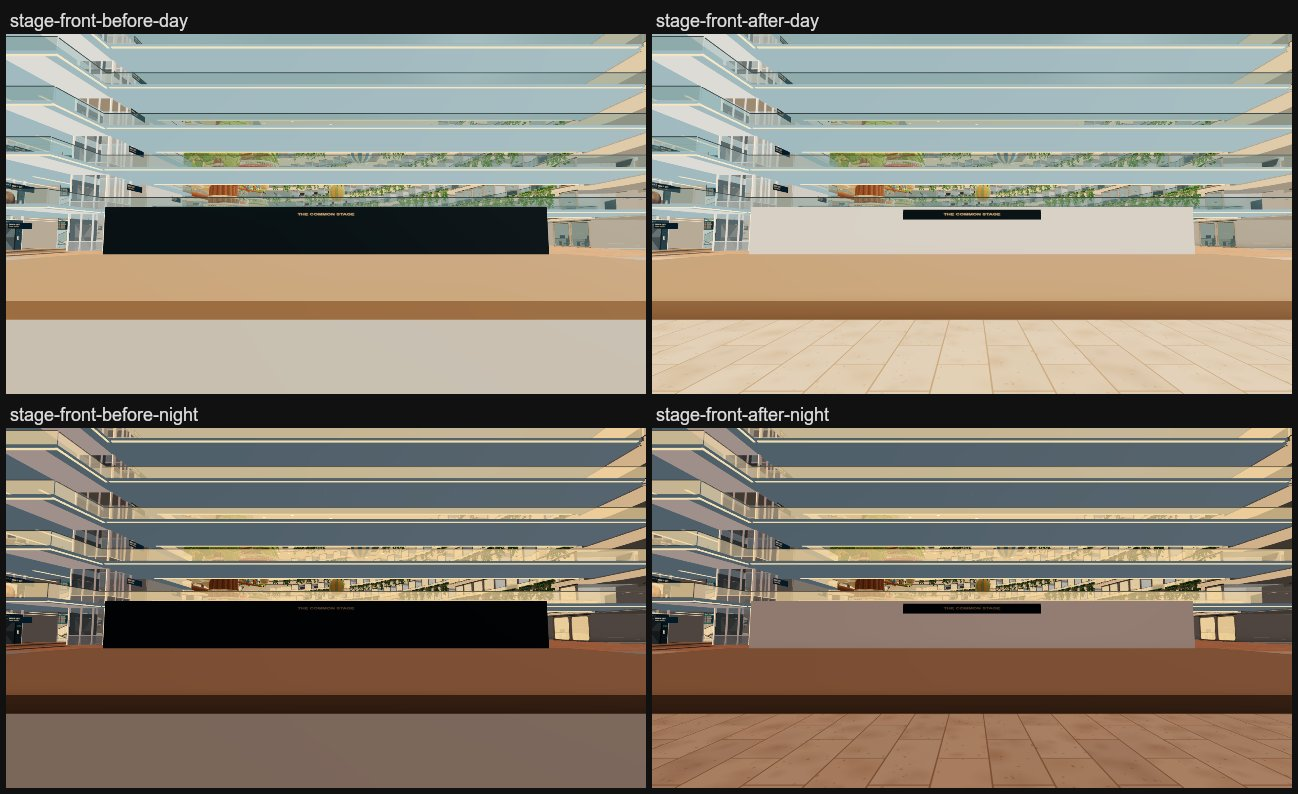
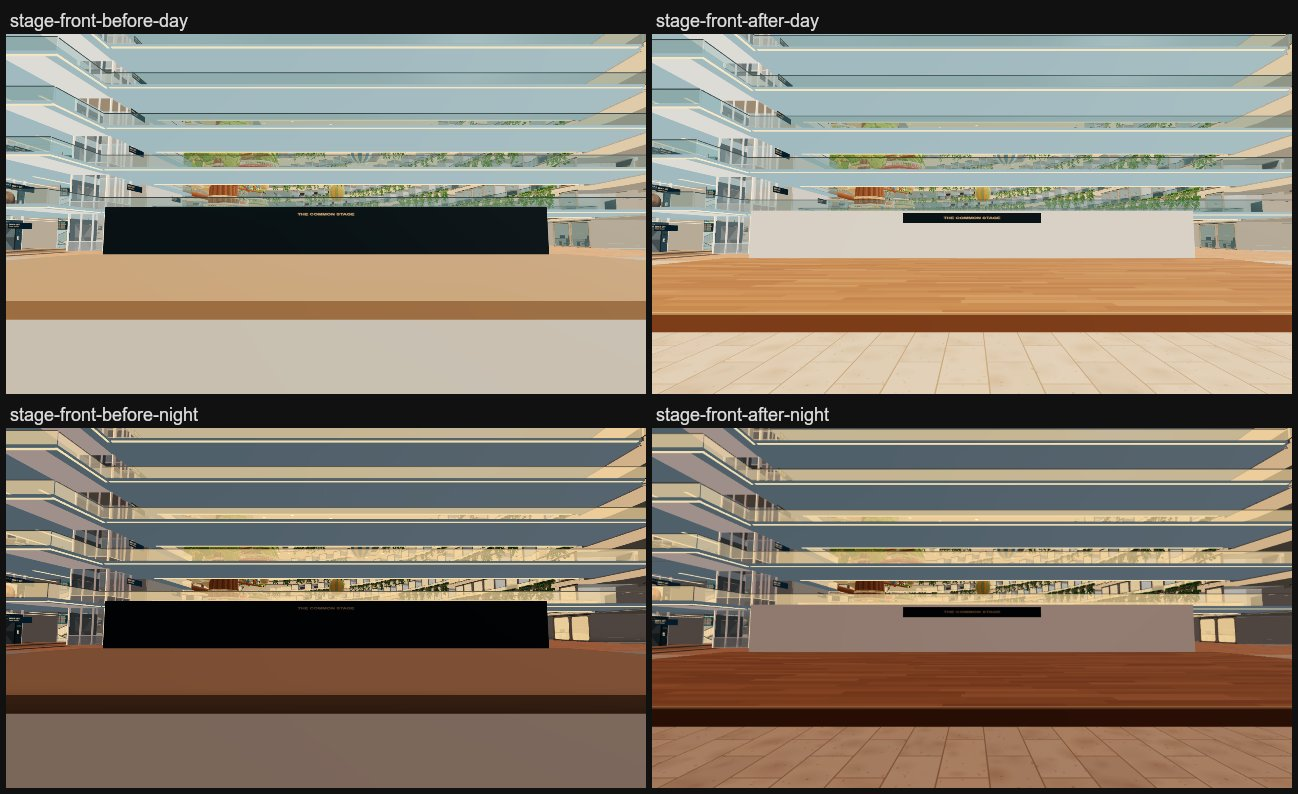
docs(atrium): stage refine 2 README, sheets, costs and checks
Terraces from the back row to a 4.5 m apron (9 seat rows, 127 seats), warm
timber in the garden mesh. Draws unchanged vs refine 1 (stage-wide 537,
stage-front 438); all nine checks pass on the 4683b34e build. Atrium PVS key
now 4.63d7c932….a8a438c4….6afd3900… (none baked).

Changed region(s): [[0.4931, 0.5441, 1.0, 0.937], [0.4931, 0.0302, 1.0, 0.4232]]

diff --git a/docs/atrium-areas/stage/README.md b/docs/atrium-areas/stage/README.md
@@ -1,97 +1,136 @@
 # G5 Common stage: amphitheatre (concept stage-a)
 
-The stage's 145 teal theatre chairs on a flat grey floor become four shallow curved tiers of warm timber with 62 cream
-cushions, curving round in front of the stage. The stage keeps its 14 x 32 m timber deck and its THE COMMON STAGE sign;
-the navy backdrop behind it becomes a cream stone wall. The plaza between the tiers and the stage is pale travertine.
+The stage's 145 teal theatre chairs on a flat grey floor become curved terraces of warm, honey-orange timber with 127
+cream cushions, stepping down from the back of the zone to a short apron in front of the stage. The stage keeps its
+14 x 32 m deck (now laid with the same boards) and its THE COMMON STAGE sign; the navy backdrop behind it becomes a cream
+stone wall. The apron is pale travertine.
 
 ![stage-wide: before, concept A, after; day (top) and night (bottom)](contact-stage-wide.jpg)
 
 ![stage-front: before and after, day (top) and night (bottom)](contact-stage-front.jpg)
 
-![the refine pass at stage-wide and stage-front: first build (left), final (right)](refine-pass.jpg)
+![stage-wide (top) and stage-front (bottom): first build, refine 1, refine 2](refine-pass.jpg)
 
-*Before is main a7b127ff, after is e0671d2b; both are r187 builds (three 0.187.0) in `leo-floor-before`, captured with
-`scripts/capture-atrium-areas.mjs --only=stage-wide,stage-front --query=time=day|night` (the before set was taken by
-atrium-lake-food from its a7b127ff build). The concept was painted over an older, brighter capture, so compare layout and
-hue, not brightness.*
+*Before is main a7b127ff, after is 4683b34e (refine 2); all are r187 builds (three 0.187.0) in `leo-floor-before`,
+captured with `scripts/capture-atrium-areas.mjs --only=stage-wide,stage-front --query=time=day|night` (the before set was
+taken by atrium-lake-food from its a7b127ff build). The concept was painted over an older, brighter capture, so compare
+layout and hue, not brightness.*
+
+## Passes
+
+1. **First build (fcecd2e0):** four 0.24 m oak tiers at radii 24.4–35.5 m, one cushion row each (62 seats), a big plaza
+   in front.
+2. **Refine 1 (e0671d2b):** pale step nosings, a lit cream wall, pale plaza paving. From stage-wide it still read as a
+   thin band of steps behind an empty plaza.
+3. **Refine 2 (4683b34e, Jay):** the terraces now run from the back row to a normal 4.5 m apron. They span most of the
+   zone and fill the stage-wide frame down to the stage, as in the concept. The timber is warmer and more orange, with no
+   new draw.
 
 ## What changed
 
 | File | Change |
 | --- | --- |
-| `src/v2/atrium-stage.js` (new) | Tiers, nosings, cushions, seats, stage deck and back wall (`addAtriumStage`), their shapes (`stageGeometry`) and plan (`stageTiers`, `stageSeats`) |
+| `src/v2/atrium-stage.js` (new) | The terrace plan (`stageBands`, `stageTiers`, `stageSeats`), the colliders and wall (`addAtriumStage`, `stageGeometry`), and the visible timber, nosings, cushions and stage deck (`addStageDecor`) |
 | `src/v2/phase6-programme.js` | The stage platform/backdrop line and the chair grid become one `addAtriumStage({parts,rests,y})` call; the sign line is unchanged |
 | `src/v2/phase4-fitout.js` (+ `.authoring.js`) | `stageGeometry(b)` is tried after `reflectionGeometry(b)` for parts with a `stageShape` |
-| `src/v2/standing.js` | The tier treads are planned floors, like the Forum terraces |
+| `src/v2/atrium-gardens.js` | One `addStageDecor(out,layout)` call (after `addFallingWater`) adds the stage's timber to the garden mesh |
+| `src/v2/atrium-architecture.js` (+ `.authoring.js`) | One line beside the terrace-guard hook hides the stage's collider furnishings (`P4_p6_stage_(tiers\|cushions_N\|platform)`) |
+| `src/v2/standing.js` | The treads and bench tops are planned floors, like the Forum terraces |
 | `src/plan/atrium-v2.js` | The stage zone's floor colour: grey `0xb6b8b0` becomes pale travertine `0xf2d7b4` |
 | `src/v2/atrium-surfaces.js` (+ `.authoring.js`) | The stage zone takes the travertine paver texture (`paved`), in its own colour |
 
-## How the tiers work
+## How the terraces work
 
-- **Plan.** Four annular sectors about a centre 4 m in front of the stage (x 102, z 30): treads at radii 24.4–26.6,
-  26.6–28.8, 28.8–31 and 31–35.5 m. The top tier is a 4.5 m promenade; the stage-wide viewpoint (x 68) stands on it, as
-  in the concept. Each tier runs from z 8.5 (2.5 m clear of the boulevard planters at z 6) to z 35 (2.57 m clear of the
-  room recess at x 71–89, z ≥ 37.6), with radial ends, so the lower tiers wrap further round. Everything stays inside
-  G5 (x 66.5–87.6, z 8.5–35 for the tiers; the stage is unchanged at x 106–120), at least 2.57 m from the atrium
-  outline (phase6-sanity wants 2.4 m), and under 3.5 m, well below the Deck 7 slab. The boulevard, the x −79 and x 2 cross
-  routes and the food stalls are untouched.
-- **Walking.** Each riser is 0.24 m, under the walker's 0.4 m step (`BODY.step`, `src/walk/collision.js`), so every
-  tread is walked onto from the one below, from anywhere along the arc; no aisles or ramps are needed. The top is 0.96 m,
-  under the 1 m drop that `scripts/v2-walk.mjs` allows without a guard, so the back edge and the tier ends need no rail
-  (stepping off them is a drop of 0.24–0.96 m onto the plaza). Each tier is a closed solid from the deck up (top, riser,
-  back, both ends), so the walker can't get inside one: `check:walk` reports no unguarded drops, and its flood reaches
-  every tread.
-- **Collision.** The tiers and cushions are ordinary solid furnishings: `addPhase4Colliders` takes their real triangles
-  (they are not box-like), and the tiers count as ground (`groundMesh`: the name has `stage`). The nosings and the back
-  wall are visual only (`noCollide`), as the old backdrop was.
-- **Look.** Oak tiers (the stage deck's material). A cream nosing (7 cm, 1.2 cm proud, lapping 3 cm down the riser) marks
-  each step: from the stage-wide view the risers face away, so without it the treads merged into one surface. The wall's
-  face faces aft, away from the atrium's sun, where a cream face renders tan; its normals are tilted towards the light
-  (as atrium-architecture.js does for the lift tower), so it reads cream.
+- **Plan.** The terraces are annular bands about the stage's front middle (x 108, z 30). There are four tiers, each
+  0.24 m up:
+
+  | Tier | Radii (m) | Seat rows |
+  | --- | --- | --- |
+  | 1 | 6.5–26.6 | its step, then benches at 10.8, 15.1, 19.4 and 23.4 m |
+  | 2 | 26.6–32.6 | its step, then a bench at 29.6 m |
+  | 3 | 32.6–36.6 | its step |
+  | 4 | 36.6–41.5 | its step; the 0.96 m top promenade, where the stage-wide viewpoint (x 68) stands, as in the concept |
+
+  The deep treads carry **0.65 m deep, 0.3 m high timber benches**, so the nine seat rows step all the way down to the
+  stage. Tier 1's front is at x 101.5, which leaves a **4.5 m apron** to the stage deck (x 106).
+- **Reach.** Each band reaches round as far as the zone allows. The inner bands wrap round the stage, reaching z 8.5 to
+  44.3. The outer bands stop at z 35 by the room recess (x 71–89, z ≥ 37.6).
+- **Clearances.** Everything stays inside G5: the terraces cover x 66.5–104.6 and z 8.5–44.3, and the stage is unchanged
+  at x 106–120. The terraces keep at least 2.59 m from the atrium outline (phase6-sanity wants 2.4 m) and stay under
+  1.1 m, far below the Deck 7 slab. The boulevard, the x −79 and x 2 cross routes and the food stalls are untouched.
+- **Walking.** Every rise is under the walker's 0.4 m step (`BODY.step`, `src/walk/collision.js`): 0.24 m per tier and
+  0.3 m onto a bench. So every tread and bench is walked onto from the one in front, anywhere along the arc, with no
+  aisles or ramps.
+- **No rails needed.** The top is 0.96 m, under the 1 m drop that `scripts/v2-walk.mjs` allows without a guard, so the
+  back edge and the band ends need no rail. Each band and bench is a closed solid from the deck up, so the walker can't get
+  inside one.
+- **Collision.** The tiers (one solid of 5,264 triangles), the nine cushion rows (one part per row, 1,524 triangles) and
+  the stage platform box stay phase 4 furnishings. `addPhase4Colliders` takes their real triangles, and `groundMesh`
+  counts them as ground (the name has `stage`).
+  - `atrium-architecture.js` hides them as `phase6ArchitectureSource`, as it does for the terrace guards, so they
+    collide but never draw. Culling, batching and phone-furnishing all skip them.
+  - The cushion colliders are split by row so each row's box keeps 2.4 m off the outline.
+  - The back wall stays visual only (`noCollide`), as the old backdrop was.
+- **Look.** The visible terraces are in the garden mesh (`P6_atrium_gardens`, already one vertex-coloured, flat-shaded
+  draw), in 128 pieces and 36,876 triangles:
+  - honey-orange timber boards (`0xad7441`–`0xc28a55`), laid in concentric 0.3 m strips of 2.4–4.4 m boards;
+  - darker risers, ends and bench fronts (`0x9c6538`);
+  - pale nosings (`0xdcae78`) on every step, bench and the stage front;
+  - rounded cream cushions (`0xf1e1c4`);
+  - the stage deck in the same boards.
+
+  The wall's face faces aft, away from the atrium's sun, where cream renders tan, so its normals are tilted towards the
+  light (as `atrium-architecture.js` does for the lift tower).
+- **Why the garden mesh and not oak.** The shared `oak` material has no vertex colours. Turning them on would need a
+  colour attribute on every oak furnishing, or they render black. A warmer timber in oak therefore meant a new material
+  and a new draw. The garden mesh already draws the atrium's floor decor in vertex colour, so the warm timber costs no draw
+  there.
 
 ## How the seats work
 
 The cushions re-anchor the existing seat system; nothing new was invented. Each cushion is a rest spot in the phase 6
-programme's `rests` (`kind:'sit'`, `phase4`/`phase6`, `instanced`), exactly like the chairs it replaces, with ids
-`p6-stage-tier-<1..4>-seat-<n>`. Raised seats need nothing special:
+programme's `rests`, exactly like the chairs it replaces:
 
-- `point`/`height` are the cushion's top (tread + 0.08 m), and `facing` points at the tiers' centre (towards the stage).
-- One row per tier, 0.36 m behind the nosing, about 1.6 m apart, at least 1 m in from the tier ends: 16, 16, 16 and 14.
-- A walker stands on the tread below (0.24 m lower) in front of a cushion and sits facing the stage, feet on that tread.
-  phase6-local finds that approach for all 604 phase 6 seats (it needs `plannedStanding`, hence `standing.js`), and the
-  prepared-walk audit finds a collider under every seat at its height.
+- They are `kind:'sit'`, `phase4`/`phase6` and `instanced`, with ids `p6-stage-tier-<1..4>-seat-<n>`.
+- `point`/`height` are the cushion's top (the tread or bench + 0.08 m, at most 1.04 m), and `facing` points at the
+  centre (towards the stage).
+- There is one row per step and per bench, 0.36 m behind its nosing and about 1.6 m apart. Cushion edges keep 1 m in from
+  the band ends on steps and 1.5 m on benches (0.5 m in from the bench ends): tier 1 has 68 seats, tier 2 has 30, tier 3 has 15 and tier 4 has 14, so 127 in all.
+- A walker stands on the tread in front of a cushion and sits facing the stage. phase6-local finds that approach for all
+  669 phase 6 seats (it needs `plannedStanding`, hence `standing.js`), and the prepared-walk audit finds a collider under
+  every seat at its height.
 - No other code referred to the old `p6-atrium6-stage-seat-*` ids.
 
-Seats in the zone go from 145 chairs to 62 cushions (phase 6 total 687 → 604; phase6-sanity wants more than 500).
+Seats in the zone go from 145 chairs to 127 cushions (phase 6 total 687 → 669; phase6-sanity wants more than 500).
 
 ## Cost
 
 From the walk's `?fps=1` readout at 1600 x 900 (`stats.json` beside each capture set):
 
-| View | Before (a7b127ff) | After (e0671d2b) |
-| --- | --- | --- |
-| stage-front, day / night | 438 draws, 7.79M tris | 438 draws, 7.80M tris |
-| stage-wide, day | 474 draws, 8.29M tris | 537 draws, 9.57M tris |
-| stage-wide, night | 475 draws, 8.29M tris | 538 draws, 9.57M tris |
-| deck-level control, 2.2 m behind stage-wide (x 65.8) | — | 476 draws, 8.32M tris |
+| View | Before (a7b127ff) | Refine 1 (e0671d2b) | Refine 2 (4683b34e) |
+| --- | --- | --- | --- |
+| stage-front, day / night | 438 draws, 7.79M tris | 438, 7.80M | 438, 7.83M |
+| stage-wide, day | 474 draws, 8.29M tris | 537, 9.57M | 537, 9.60M |
+| stage-wide, night | 475 draws, 8.29M tris | 538, 9.57M | 538, 9.60M |
+| deck-level control, 2.2 m behind stage-wide (x 65.8) | — | 476, 8.32M | 476, 8.35M |
 
-- **No new draws from the stage.** The tiers, nosings, cushions and wall are indexed furnishings in the existing oak and
-  cream materials, so on multi-draw GPUs they join the existing furnishing batches (`furnishing-batches.js`); stage-front
-  is unchanged.
-- **stage-wide costs more because the walker stands higher.** The viewpoint now lands on the 0.96 m top tier, and from
-  that eye height more of the ship (upper balconies, cabins through glass) is in view: +63 draws and +1.28M triangles.
-  From the deck just behind the tiers the same view costs 476 draws and 8.32M triangles, within 2 draws of before.
-- **Geometry:** tiers 1,090 + nosings 1,090 + cushions 6,696 + wall 12 triangles, against 5,220 for the 145 chairs it
-  replaces (+3,668 net). Phones see each new kind once (phone-furnishing.js); it is all stage furnishing, not distant decor.
+- **No new draws from the stage.** The warm timber, nosings, cushions and stage deck are merged into the existing garden
+  draw, and the colliders are hidden. The wall (12 triangles) is a cream furnishing in the existing batch. Refine 2 draws
+  exactly what refine 1 did in every view.
+- **stage-wide costs more only because the walker stands higher.** The viewpoint lands on the 0.96 m top tier. From that
+  eye height more of the ship is in view (upper balconies, cabins through glass): +63 draws and +1.3M triangles. From the
+  deck just behind the terraces, the same view costs 476 draws, within 2 of before.
+- **Geometry.** The garden mesh grows by 36,876 triangles, against 5,220 for the 145 chairs it replaces. The colliders
+  (6,800 triangles) are never drawn.
 
 ## Checks and the PVS key
 
-All on the final r187 build of e0671d2b in `leo-floor-before` (exit 0 each):
+All on the r187 build of 4683b34e in `leo-floor-before` (exit 0 each):
 
 | Check | Result |
 | --- | --- |
-| `npm run check:walk` | PASS: 0 unguarded drops over 1 m, 0 void falls; seats and beds 35,311/35,311 usable, the stage's 62/62 |
-| `node scripts/check-phase6-v2.mjs` | PASS: all 12 tasks (sanity, local seat fit 604/604, contract, floor/canopy/fog/visibility/directory/service-deck/live-glass fixtures, prepared audit incl. the atrium void, sky tip) |
+| `npm run check:walk` | PASS: no unguarded drops over 1 m (`guardGaps` empty), 0 void falls; seats and beds 35,376/35,376 usable, the stage's 127/127 |
+| `node scripts/check-phase6-v2.mjs` | PASS: all 12 tasks (sanity with 669 seats, local seat fit 669/669, contract, floor/canopy/fog/visibility/directory/service-deck/live-glass fixtures, prepared audit incl. the atrium void, sky tip) |
 | `node scripts/check-prepared-runtime-migration.mjs` | PASS |
 | `npm run check:atrium-time` | PASS, 12 checks |
 | `node scripts/check-atrium-void-fixtures-v2.mjs` | PASS |
@@ -100,21 +139,22 @@ All on the final r187 build of e0671d2b in `leo-floor-before` (exit 0 each):
 | `node scripts/check-lobby-tile-v2.mjs` | PASS |
 | `node scripts/check-main-features-v2.mjs` | PASS |
 
-The first build (fcecd2e0, before the refine) also passed `check:walk` with the same tier and seat geometry; the refine
-only added `noCollide` nosings and moved the cushions 6 cm.
+Refine 1 (e0671d2b) also passed all nine, with 62/62 stage seats.
 
 **Atrium PVS key** (the colliders changed): `4.63d7c93282b3f79b647143e90093b6df.aaba3802c109794758a3fffa000069ed.6afd3900849f657047053acc00000001`
-→ `4.63d7c93282b3f79b647143e90093b6df.bbdd2b99bafbecae0c00b7830000683c.6afd3900849f657047053acc00000001`. None is baked
-for either key today, so nothing goes stale; a bake for the new key would follow the usual `scripts/walk-atrium-pvs.mjs`
+→ `4.63d7c93282b3f79b647143e90093b6df.a8a438c4b9b108b0fd782f8700006844.6afd3900849f657047053acc00000001`. None is baked
+for either key today, so nothing goes stale. A bake for the new key would follow the usual `scripts/walk-atrium-pvs.mjs`
 route.
 
 ## Left as it is / follow-ups
 
-- **Closer to the concept:** the concept's tiers fill more of the frame and are a more saturated orange. Deeper treads
-  (or tiers reaching nearer the stage) and a warmer timber than the shared `oak` would close that gap. A warmer timber
-  means a new material, so one more draw, unless it joins an existing warm material.
 - The back wall stays `noCollide`, as the navy backdrop was; walking off the back of the stage passes through it.
 - `scripts/check-source-fold.mjs` (not in the required list) already fails on main, on `server/live-core.mjs`, so the
   switchover pins were not re-pinned here.
-- Merge notes: `atrium-surfaces(.authoring).js` changes one condition in the long zone-floor line that the lobby and food
-  jobs may also touch; `phase6-programme.js` changes only the stage lines; `atrium-v2.js` only the stage zone's colour.
+- **Merge notes:**
+  - `atrium-surfaces(.authoring).js` changes one condition in the long zone-floor line that the lobby and food jobs may
+    also touch.
+  - `atrium-architecture(.authoring).js` adds one line right after the terrace-guard hook. atrium-lobby-park adds its
+    welcome-desk line near there too.
+  - `atrium-gardens.js` adds an import and one line after `const falling=…`.
+  - `phase6-programme.js` changes only the stage lines, and `atrium-v2.js` only the stage zone's colour.

diff --git a/docs/atrium-areas.md b/docs/atrium-areas.md
@@ -14,7 +14,7 @@ view, so they are settled before the ground zones; otherwise each zone's concept
 | G2 Voyager park | x −90..−4, z −56..−6 | `phase6-programme.js`, `atrium-gardens.js`, `src/plan/atrium-v2.js` |
 | G3 Reflection lake | x 4..120, z −56..−6: water, waterfall, bridge, bays, island | `reflection-terraces.js`, `atrium-gardens.js`, `atrium-v2.js` |
 | G4 Food hall | x −90..58, z 6..56: stalls, tables, timber decks, festoons | `phase6-programme.js`, `atrium-gardens.js`, `atrium-v2.js` |
-| G5 Common stage | x 66..122, z 6..56: timber amphitheatre tiers, stage deck, cream wall ([stage/](atrium-areas/stage/README.md)) | `src/v2/atrium-stage.js`, `phase6-programme.js` |
+| G5 Common stage | x 66..122, z 6..56: timber amphitheatre tiers, stage deck, cream wall ([stage/](atrium-areas/stage/README.md)) | `src/v2/atrium-stage.js`, `phase6-programme.js`, `atrium-gardens.js` |
 
 Out of scope unless asked: Voyage Commons, bow coffee bars, observation lounge.
 
